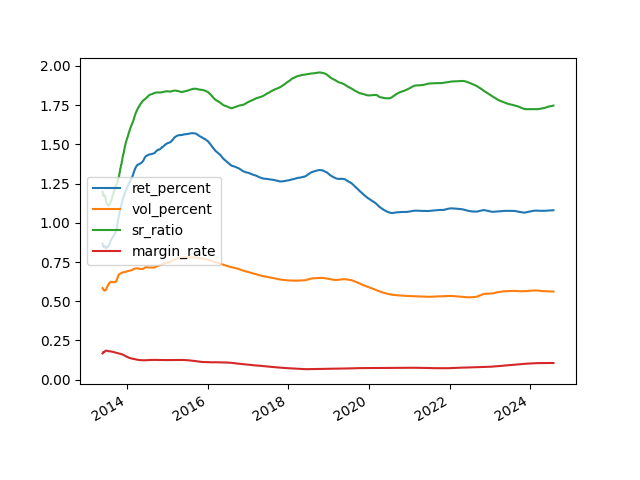
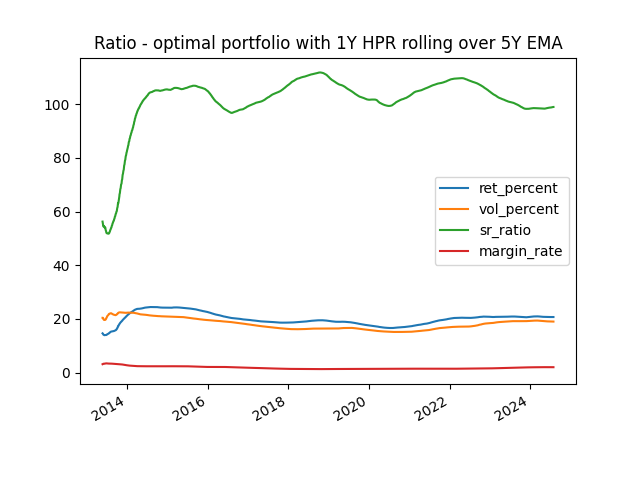
update doc

diff --git a/GenRollingPortfolioFromDB.py b/GenRollingPortfolioFromDB.py
@@ -22,7 +22,7 @@ from yahooquery import Ticker
 
 
 class Stats():
-    def __init__(self, startdate, holdingPeriodYear, rollingYr,divTaxRate):
+    def __init__(self, startdate, holdingPeriodYear, rollingYr, divTaxRate):
         self.holdingPeriodYear = holdingPeriodYear
         self.no_of_days = 252 * self.holdingPeriodYear  # number of days for a quarter = 63
         self.fromDate = datetime.strptime(startdate, '%d/%m/%Y').date()
@@ -172,13 +172,17 @@ class Allocation():
             if self.stat.rollingYr == 0.25:
                 single_period_margin_rate = self.stat.yc.loc[date]['3m'] * self.stat.holdingPeriodYear / 100
             elif self.stat.rollingYr == 1:
-                single_period_margin_rate = math.pow(1 + self.stat.yc.loc[date]['1yr'] / 100, self.stat.holdingPeriodYear) - 1
+                single_period_margin_rate = math.pow(1 + self.stat.yc.loc[date]['1yr'] / 100,
+                                                     self.stat.holdingPeriodYear) - 1
             elif self.stat.rollingYr == 2:
-                single_period_margin_rate = math.pow(1 + self.stat.yc.loc[date]['2yr'] / 100, self.stat.holdingPeriodYear) - 1
+                single_period_margin_rate = math.pow(1 + self.stat.yc.loc[date]['2yr'] / 100,
+                                                     self.stat.holdingPeriodYear) - 1
             elif self.stat.rollingYr == 5:
-                single_period_margin_rate = math.pow(1 + self.stat.yc.loc[date]['5yr'] / 100, self.stat.holdingPeriodYear) - 1
+                single_period_margin_rate = math.pow(1 + self.stat.yc.loc[date]['5yr'] / 100,
+                                                     self.stat.holdingPeriodYear) - 1
             elif self.stat.rollingYr == 10:
-                single_period_margin_rate = math.pow(1 + self.stat.yc.loc[date]['10yr'] / 100, self.stat.holdingPeriodYear) - 1
+                single_period_margin_rate = math.pow(1 + self.stat.yc.loc[date]['10yr'] / 100,
+                                                     self.stat.holdingPeriodYear) - 1
             else:
                 raise Exception("unsupported rollingYr")
         except Exception as error:
@@ -195,7 +199,8 @@ class Allocation():
         # total return => captial gain + tax adjusted dividend gain - etf expense
         # total_HPR_1 = np.exp(self.returns.sum(axis=0) + self.div_return.sum(axis=0) + self.single_period_expense_series)
         # if window size == self.stat.no_of_days, then actually we don't need to calculate mean and multiply
-        total_HPR_1 = np.exp((self.returns.mean() + self.div_return.mean()) * self.stat.no_of_days + self.single_period_expense_series)
+        total_HPR_1 = np.exp(
+            (self.returns.mean() + self.div_return.mean()) * self.stat.no_of_days + self.single_period_expense_series)
         log_var = self.returns.var(skipna=True) * self.stat.no_of_days
         diff = np.exp(-1 * np.sqrt(log_var))
         std = np.subtract(diff * HPR_1, HPR_1)
@@ -306,7 +311,8 @@ if __name__ == "__main__":
     )
 
     args = parser.parse_args()
-    print("holdingPeriodYear=", args.holdingPeriodYear,"rollingYr=",args.rollingYr , "startdate=", args.startdate, "cmd=", args.cmd, "divTaxRate=",
+    print("holdingPeriodYear=", args.holdingPeriodYear, "rollingYr=", args.rollingYr, "startdate=", args.startdate,
+          "cmd=", args.cmd, "divTaxRate=",
           args.divTaxRate)
 
     stats = Stats(args.startdate, args.holdingPeriodYear, args.rollingYr, args.divTaxRate)
@@ -319,21 +325,37 @@ if __name__ == "__main__":
     stats.pre_log_expense()
 
     if args.cmd == 'div':
-        print("mean \n", stats.returns)
-        print("mean std \n", stats.returns.std())
-        print("div ret\n", stats.div_return)
-        print("div ret mean \n", stats.div_return.mean())
-        print("div ret std \n", stats.div_return.std())
-        print("expense \n", np.exp(stats.log_expense) * 100)
+        print("log mean \n", stats.returns.mean())
+        print("log mean std \n", stats.returns.std())
+        print("div log ret mean \n", stats.div_return.mean())
+        print("div log ret std \n", stats.div_return.std())
+        print("expense \n", (np.exp(stats.log_expense) - 1) * 100)
         plt.figure(0)
         stats.returns.plot()
         plt.title("log return")
+
         plt.figure(1)
-        stats.div.plot()
-        plt.title("div payment")
+        div = stats.div.groupby(stats.div.index.year).sum()
+        div.plot()
+        plt.title("tax adjusted div payment over year")
+
         plt.figure(2)
-        stats.div_return.plot()
-        plt.title("log div yield")
+        div_yield = (np.exp(stats.div_return.groupby(stats.div_return.index.year).sum()) - 1) * 100
+        div_yield.plot()
+        plt.title("tax adjusted div yield per year")
+
+        plt.figure(4)
+        div_yield_over_time = (div / stats.Closeprice.loc[stats.Closeprice.first_valid_index()]) * 100
+        for ticker in div_yield_over_time.columns:
+            div_line = div_yield_over_time[ticker]
+            close_price = stats.Closeprice.loc[stats.Closeprice.first_valid_index(), ticker]
+            date = stats.Closeprice[ticker].first_valid_index().date()
+            label = f"{ticker}@{close_price:.2f} on {date}"
+            div_line.plot(label=label)
+
+        plt.title("Tax-Adjusted Dividend Yield Over Years Since First Funding")
+        plt.legend()
+        plt.grid(True)
         plt.show()
     elif args.cmd == 'o':
         rolling_return = stats.rolling_return_list()
@@ -349,7 +371,6 @@ if __name__ == "__main__":
 
         rolling_alloc = [rolling_optimize(ret.dropna(), div.dropna()) for ret, div in
                          zip(rolling_return, rolling_div_return) if not ret.empty and not div.empty]
-        print(len(rolling_alloc))
         ratio_m = pd.DataFrame([alloc.get_result() for alloc in rolling_alloc],
                                index=[alloc.endDate for alloc in rolling_alloc])
         alloc_m = pd.DataFrame([alloc.get_allocation() for alloc in rolling_alloc],
@@ -357,8 +378,10 @@ if __name__ == "__main__":
 
         plt.figure(1)
         ratio_m.plot()
+        plt.title(f"Ratio - optimal portfolio with {int(stats.holdingPeriodYear)}Y HPR rolling over {int(stats.rollingYr)}Y window")
         plt.figure(2)
         alloc_m.plot()
+        plt.title(f"Alloc - optimal portfolio with {int(stats.holdingPeriodYear)}Y HPR rolling over {int(stats.rollingYr)}Y window")
 
         plt.show()
     elif args.cmd == 'o_avg':
@@ -375,13 +398,11 @@ if __name__ == "__main__":
 
         rolling_alloc = [rolling_optimize(ret.dropna(), div.dropna()) for ret, div in
                          zip(rolling_return, rolling_div_return) if not ret.empty and not div.empty]
-        print(len(rolling_alloc))
         ratio_m = pd.DataFrame([alloc.get_result() for alloc in rolling_alloc],
                                index=[alloc.endDate for alloc in rolling_alloc])
         alloc_m = pd.DataFrame([alloc.get_allocation() for alloc in rolling_alloc],
                                index=[alloc.endDate for alloc in rolling_alloc])
 
-        print(alloc_m)
         alloc_mean = alloc_m.ewm(halflife=str(int(stats.windowSize) / 2) + " days",
                                  times=alloc_m.index.get_level_values(0)).mean()
         ratio_mean = ratio_m.ewm(halflife=str(int(stats.windowSize) / 2) + " days",
@@ -389,9 +410,11 @@ if __name__ == "__main__":
 
         plt.figure(1)
         ratio_mean.plot()
+        plt.title(f"Ratio - optimal portfolio with {int(stats.holdingPeriodYear)}Y HPR rolling over {int(stats.rollingYr)}Y EMA")
         plt.figure(2)
         alloc_mean.plot()
-
+        plt.title(f"Alloc - optimal portfolio with {int(stats.holdingPeriodYear)}Y HPR rolling over {int(stats.rollingYr)}Y EMA")
+        plt.grid(True)
         plt.show()
     elif args.cmd == 'corr':
         corr_matrix = stats.rolling_corr()
@@ -401,7 +424,8 @@ if __name__ == "__main__":
                 if a != b:
                     print(a, b)
                     y = corr_matrix.loc[(slice(None), a), b].dropna()
-                    x = y.index.get_level_values(0).unique()
+                    x = y.index.get_level_values(0).unique().to_numpy()
+                    y = y.to_numpy()
                     plt.plot(x, y, label=f"{a}-{b}")
 
 
@@ -431,8 +455,6 @@ if __name__ == "__main__":
                     y = s.to_numpy()
                     i = s.index.get_level_values(0).unique().astype(int).to_numpy()
                     z = np.full_like(s, my_dict[a])
-                    # print(type(i[0]), type(y), type(z))
-                    # print(len(i), len(y), len(z))
                     ax.plot(z, i, y, label=f"{my_dict[a]}-{a}-{b}")
         ax.set_xlabel('stock')
         ax.set_ylabel('date')
@@ -448,8 +470,6 @@ if __name__ == "__main__":
         corr = ret.ewm(span=int(stats.windowSize)).corr()
         # https://pandas.pydata.org/pandas-docs/stable/reference/api/pandas.DataFrame.mean.html
         corr_matrix = corr.groupby(level=1).mean()
-        # print(corr_matrix)
-        # corr_matrix.to_csv(r'ui/output/corr.csv', index=True, header=True)
 
         plt.figure(2, figsize=(13, 8))
         # cmap options: “RdYlGn_r”, “summer_r”, “Blues”, and “Greens”
@@ -460,8 +480,6 @@ if __name__ == "__main__":
     elif args.cmd == 'beta':
         betas = {}
         US_benchmark = 'SPY'
-        HK_benchmark = '2800.HK'
-        CN_benchmark = '159919.SZ'
         benchmarks = {US_benchmark}
         from scipy import stats as ss
 
@@ -477,8 +495,6 @@ if __name__ == "__main__":
 
     elif args.cmd == 'beta_avg':
         US_benchmark = 'SPY'
-        # HK_benchmark = '2800.HK'
-        # CN_benchmark = '159919.SZ'
         from scipy import stats as ss
 
         rolling_return = stats.rolling_return_list()
@@ -510,7 +526,6 @@ if __name__ == "__main__":
         rolling_avg.plot()
 
         plt.show()
-        # betas.to_csv(r'ui/output/beta.csv', index=True, header=True)
     elif args.cmd == 'var':
         var = stats.returns.dropna().rolling(window=int(stats.windowSize)).var() * stats.no_of_days
         plt.figure(0)
@@ -535,11 +550,8 @@ if __name__ == "__main__":
 
         rolling_return = stats.rolling_return_list()
         rolling_std = [roll_std(ret.dropna()) for ret in rolling_return if not ret.empty]
-        print(len(rolling_std))
-        # print(rolling_std)
         std_m = pd.DataFrame([std for startDate, endDate, std in rolling_std],
                              index=[endDate for startDate, endDate, std in rolling_std])
-        # print(ratio_m)
         std_m.plot()
         plt.show()
 
@@ -557,12 +569,11 @@ if __name__ == "__main__":
 
         rolling_return = stats.rolling_return_list()
         rolling_std = [roll_std(ret.dropna()) for ret in rolling_return if not ret.empty]
-        print(len(rolling_std))
-        # print(rolling_std)
         std_m = pd.DataFrame([std for startDate, endDate, std in rolling_std],
                              index=[endDate for startDate, endDate, std in rolling_std])
-        # print(ratio_m)
         std_avg = std_m.ewm(halflife=str(int(stats.windowSize) / 2) + " days",
                             times=std_m.index.get_level_values(0)).mean()
         std_avg.plot()
+        plt.grid(True)
+        plt.title(f"Rolling Risk in a {stats.holdingPeriodYear}-Y holding Period")
         plt.show()

diff --git a/scripts/Beta.py b/scripts/Beta.py
@@ -49,7 +49,7 @@ for i in recvTickers:
 betas = pd.DataFrame(betas).transpose()
 print("betas=", betas)
 
-betas.to_csv(r'ui/output/beta.csv', index=True, header=True)
+betas.to_csv(r'sheet/output/beta.csv', index=True, header=True)
 
 size = len(recvTickers)
 
@@ -61,7 +61,7 @@ ret_arr = returns.mean()
 ret_arr = pd.DataFrame(ret_arr)
 print("ret_arr=", ret_arr)
 
-ret_arr.to_csv(r'ui/output/log_daily_return.csv', index=True, header=True)
+ret_arr.to_csv(r'sheet/output/log_daily_return.csv', index=True, header=True)
 
 # Expected volatility
 # percent : exp(-x) != exp(+x) ???
@@ -72,4 +72,4 @@ vol_arr = returns.var()
 vol_arr = pd.DataFrame(vol_arr)
 print("vol_arr=", vol_arr)
 
-vol_arr.to_csv(r'ui/output/log_daily_var.csv', index=True, header=True)
+vol_arr.to_csv(r'sheet/output/log_daily_var.csv', index=True, header=True)

diff --git a/scripts/GenPortfolio3.py b/scripts/GenPortfolio3.py
@@ -157,7 +157,7 @@ for i in recvTickers:
 
 df = pd.DataFrame(df, index=[0]).transpose()
 print(df)
-df.to_csv(r'ui/output/optimal.csv', index=True, header=True)
+df.to_csv(r'sheet/output/optimal.csv', index=True, header=True)
 
 # We want the key x from the dictionary, which is an array with the weights of the portfolio that has the maximum Sharpe ratio.
 # If we use our function get_ret_vol_sr we get the return, volatility, and sharpe ratio:

diff --git a/scripts/Correlation.py b/scripts/Correlation.py
@@ -52,7 +52,7 @@ sum_corr = df.corr().sum().sort_values(ascending=True).index.values
 
 corr_matrix = df[sum_corr].corr()
 print("corr_matrix=", corr_matrix)
-corr_matrix.to_csv(r'ui/output/corr.csv', index=True, header=True)
+corr_matrix.to_csv(r'sheet/output/corr.csv', index=True, header=True)
 
 plt.figure(figsize=(13, 8))
 # cmap options: “RdYlGn_r”, “summer_r”, “Blues”, and “Greens”
